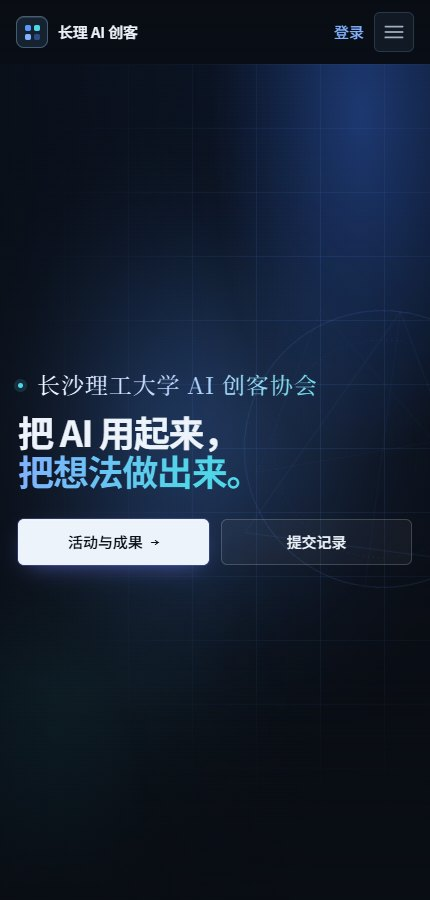
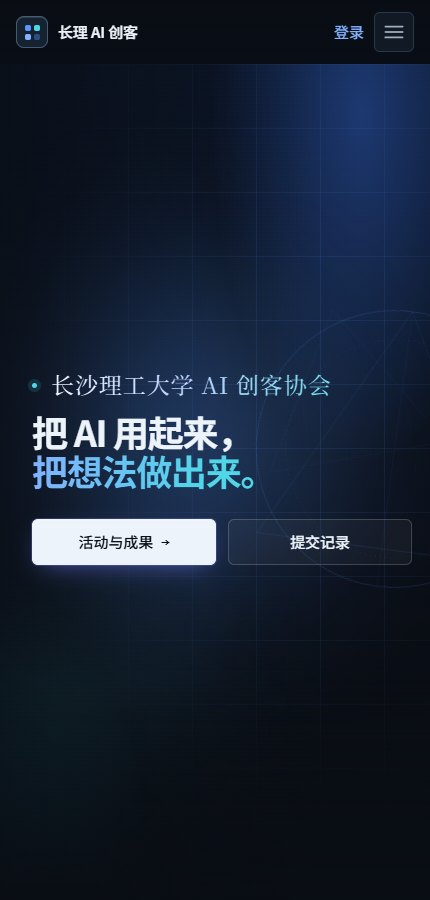
feat: 首屏文案与 3D 模型同步右移约 3 个字宽

Changed region(s): [[0.0302, 0.4044, 0.7558, 0.6533], [0.1512, 0.5911, 0.3628, 0.6222], [0.6651, 0.5911, 0.8163, 0.6222]]

diff --git a/src/styles/app-theme.css b/src/styles/app-theme.css
@@ -1087,3 +1087,19 @@ body { font-size: 16px; }
 @media (max-width: 640px) {
   .page-header { padding-left: 18px; padding-right: 18px; }
 }
+
+/* 2026-10-28 首屏文案与 3D 模型同步右移（约 3 个字宽） */
+.home-copy { margin-left: clamp(20px, 6.5vw, 96px); }
+.home-canvas { transform: translateX(clamp(24px, 6.5vw, 96px)); }
+.home-ring-a { translate: clamp(24px, 6.5vw, 96px) -50%; }
+.home-ring-b { translate: clamp(24px, 6.5vw, 96px) -50%; }
+@media (max-width: 1024px) {
+  .home-copy { margin-left: clamp(8px, 3vw, 34px); }
+  .home-canvas { transform: translateX(clamp(10px, 3vw, 34px)); }
+  .home-ring-a, .home-ring-b { translate: clamp(10px, 3vw, 34px) -50%; }
+}
+@media (max-width: 640px) {
+  .home-copy { margin-left: 14px; }
+  .home-canvas { transform: translateX(12px); }
+  .home-ring-a, .home-ring-b { translate: 12px -50%; }
+}
